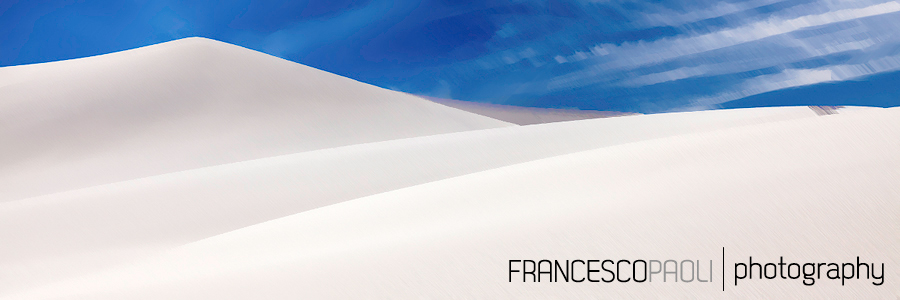
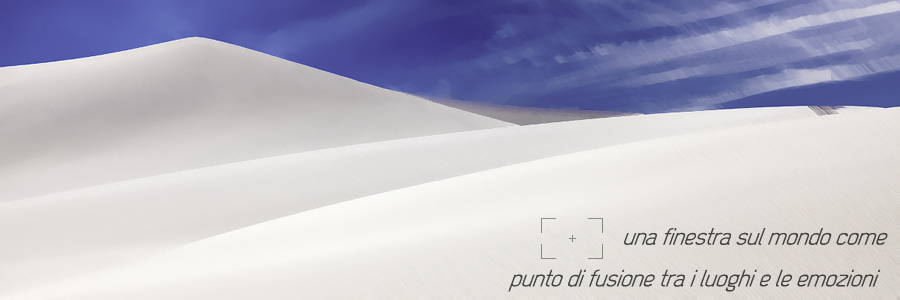
Nuova immagine home correzione in info.php
//TEST MAIL SU LIBERO

diff --git a/info.php b/info.php
@@ -14,7 +14,7 @@ require_once ('include.php');
                     Tutte le opere sono disponibili per la stampa in edizione limitata e in diversi formati, riprodotte con stampanti e inchiostri professionali di altissima qualità e corredate di certificazione Digigraphie® di Epson.
                 </p>
                 <p>
-                    Per comprendere meglio il livello di dettaglio e la qualità raggiungibili in fase di stampa, è possibile passare il mouse sull'immagine alla destra e visualizzare un'anteprima ad alta risoluzione di una parte dell'immagine.
+                    Per comprendere meglio il livello di dettaglio e la qualità raggiungibili in fase di stampa, è possibile visualizzare un'anteprima ad alta risoluzione passando il mouse all'interno del riquadro nero.
                 </p>
                 <p>
                     Per una resa più fedele dei colori si consiglia la visualizzazione su monitor calibrati.

diff --git a/process.php b/process.php
@@ -4,13 +4,13 @@
 $smtp_server = 'smtp.francescopaoli.com';
 $username = '2933995@aruba.it';
 $password = 'cun2ax4j';
-$target_email = "info@francescopaoli.com";
+//$target_email = "info@francescopaoli.com";
 
 //configurazione dev
 //$smtp_server = 'mail.marcovenanzi.com';
 //$username = 'hi@marcovenanzi.com';
 //$password = 'benebene';
-//$target_email = "marcovena@libero.it";
+$target_email = "marcovena@libero.it";
 
 
 //testo e campi statici mail
